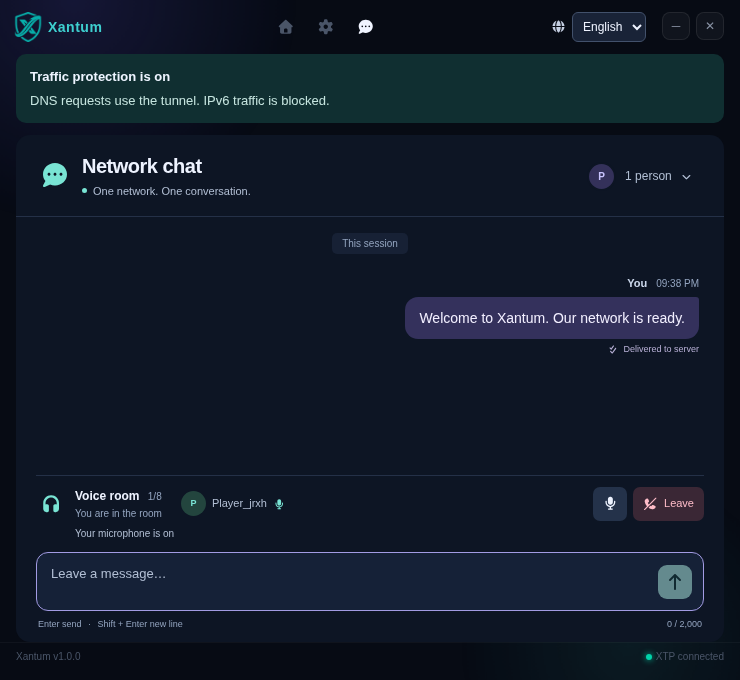
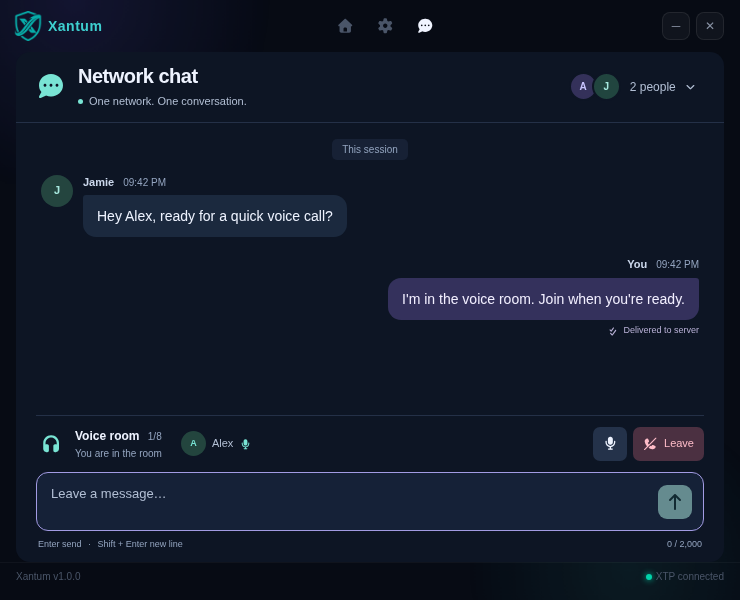
v1.0.0

diff --git a/client/src/components/LanguageSelector.jsx b/client/src/components/LanguageSelector.jsx
@@ -1,15 +1,52 @@
-import React from 'react'
+import React, { useEffect, useId, useRef, useState } from 'react'
 import { t, useLocale } from '../i18n/useLocale.jsx'
 import './LanguageSelector.css'
 
+const languages = [{ code: 'en', name: 'English' }, { code: 'tr', name: 'Türkçe' }]
+
 export default function LanguageSelector() {
   const { locale, setLocale } = useLocale()
-  return <label className="language-selector" title={t('Language preference')}>
-    <i className="fas fa-globe" aria-hidden="true" />
-    <span className="sr-only">{t('Language')}</span>
-    <select aria-label={t('Language')} value={locale} onChange={event => setLocale(event.target.value)}>
-      <option value="en">English</option>
-      <option value="tr">Türkçe</option>
-    </select>
-  </label>
+  const [open, setOpen] = useState(false)
+  const root = useRef(null)
+  const trigger = useRef(null)
+  const options = useRef([])
+  const id = useId()
+  const selected = languages.findIndex(language => language.code === locale)
+  useEffect(() => {
+    if (!open) return
+    options.current[selected]?.focus()
+    const outside = event => { if (!root.current?.contains(event.target)) setOpen(false) }
+    document.addEventListener('pointerdown', outside)
+    return () => document.removeEventListener('pointerdown', outside)
+  }, [open, selected])
+  const close = () => { setOpen(false); trigger.current?.focus() }
+  const navigate = event => {
+    const index = options.current.indexOf(document.activeElement)
+    if (event.key === 'Escape') { event.preventDefault(); event.stopPropagation(); close() }
+    else if (['ArrowDown', 'ArrowUp', 'Home', 'End'].includes(event.key)) {
+      event.preventDefault()
+      const next = event.key === 'Home' ? 0 : event.key === 'End' ? languages.length - 1 : (index + (event.key === 'ArrowDown' ? 1 : -1) + languages.length) % languages.length
+      options.current[next]?.focus()
+    }
+  }
+  return <section className="language-setting" aria-labelledby={`${id}-label`}>
+    <div className="language-setting-copy">
+      <h3 id={`${id}-label`}><i className="fas fa-globe" aria-hidden="true" />{t('Language')}</h3>
+      <p>{t('Changes apply immediately.')}</p>
+    </div>
+    <div className="language-picker" ref={root} onBlur={event => { if (!event.currentTarget.contains(event.relatedTarget)) setOpen(false) }}>
+      <button type="button" className="language-trigger" ref={trigger} id={`${id}-trigger`}
+        aria-label={`${t('Language')}: ${languages[selected].name}`} aria-haspopup="menu" aria-expanded={open} aria-controls={open ? `${id}-menu` : undefined}
+        onClick={() => setOpen(value => !value)} onKeyDown={event => { if (event.key === 'ArrowDown' || event.key === 'ArrowUp') { event.preventDefault(); setOpen(true) } }}>
+        <span lang={locale}>{languages[selected].name}</span><i className={`fas fa-chevron-${open ? 'up' : 'down'}`} aria-hidden="true" />
+      </button>
+      {open && <div className="language-menu" id={`${id}-menu`} role="menu" aria-labelledby={`${id}-label`} onKeyDown={navigate}>
+        {languages.map((language, index) => <button type="button" key={language.code} ref={element => { options.current[index] = element }}
+          role="menuitemradio" aria-checked={locale === language.code} tabIndex={-1} lang={language.code}
+          onClick={() => { setLocale(language.code); close() }}>
+          <span>{language.name}</span>{locale === language.code && <i className="fas fa-check" aria-hidden="true" />}
+        </button>)}
+      </div>}
+    </div>
+  </section>
 }

diff --git a/client/electron/network-protection.js b/client/electron/network-protection.js
@@ -33,11 +33,15 @@ function execute(file, args) {
 }
 
 // A privileged helper must never be executable from a user-writable directory.
-function trustedLinuxHelper(file, stat = fs.lstatSync) {
+function trustedLinuxHelper(file, stat = fs.lstatSync, { executable = true } = {}) {
   let current = file
   while (true) {
     const entry = stat(current)
-    if (entry.isSymbolicLink() || entry.uid !== 0 || (entry.mode & 0o022)) throw new Error(t('Linux ağ yardımcısı ve üst klasörleri root sahipli ve yazmaya kapalı olmalı.'))
+    if (entry.isSymbolicLink() || entry.uid !== 0 || (entry.mode & 0o022) ||
+        (current === file && ((typeof entry.isFile === 'function' && !entry.isFile()) || (executable && !(entry.mode & 0o111)))) ||
+        (current !== file && typeof entry.isDirectory === 'function' && !entry.isDirectory())) {
+      throw new Error(t('Linux ağ yardımcısı ve üst klasörleri root sahipli ve yazmaya kapalı olmalı.'))
+    }
     if (current === '/') break
     current = path.dirname(current)
   }
@@ -55,7 +59,7 @@ class SystemProtectionAdapter {
     try {
       trustedLinuxHelper(path.join(LINUX_ROOT, 'network-protection-linux.py'), this.stat)
       trustedLinuxHelper(path.join(LINUX_ROOT, 'xtp-tun-helper'), this.stat)
-      trustedLinuxHelper(LINUX_POLICY, this.stat)
+      trustedLinuxHelper(LINUX_POLICY, this.stat, { executable: false })
       const policy = this.readFile(LINUX_POLICY, 'utf8')
       if (!/<annotate\s+key=["']org\.freedesktop\.policykit\.imply["']>\s*org\.xantum\.tun\s*<\/annotate>/.test(policy)) {
         throw new Error(t('Linux yardımcılarının yetki ilkesi güncellenmeli.'))
@@ -66,6 +70,9 @@ class SystemProtectionAdapter {
 
   async installHelpers() {
     if (this.platform !== 'linux') throw new Error(t('Bu işletim sisteminde ayrı Linux yardımcı kurulumu gerekmiyor.'))
+    // Re-check the persistent, root-owned installation rather than remembering a
+    // flag in user settings. Repeated/stale setup actions must not re-elevate.
+    if (!this.linuxSetupError()) return this.status()
     await this.install({ resourcesPath: this.resourcesPath })
     const error = this.linuxSetupError()
     if (error) throw error
@@ -143,9 +150,11 @@ class NetworkProtection {
       return this._accept(await this.adapter.installHelpers(), 'armed')
     } catch (error) {
       try { this._accept(await this.adapter.status(), 'armed') } catch (probeError) {
-        this._set({ state: 'unknown', active: this.state.active || !!probeError.journalExists, blocked: this.state.blocked || !!probeError.journalExists, verified: false })
+        this._set({ state: 'unknown', active: this.state.active || !!probeError.journalExists, blocked: this.state.blocked || !!probeError.journalExists, verified: false,
+          // A journal verification error does not invalidate installed helpers.
+          setupRequired: probeError.journalExists ? !!probeError.setupRequired : this.state.setupRequired })
       }
-      this._set({ verified: false, setupRequired: true, setupError: error.message, error: error.message })
+      this._set({ verified: false, setupError: this.state.setupRequired ? error.message : null, error: error.message })
       throw error
     }
   }) }

diff --git a/client/src/components/LanguageSelector.css b/client/src/components/LanguageSelector.css
@@ -1,7 +1,16 @@
-.language-selector { -webkit-app-region: no-drag; display: inline-flex; gap: 6px; align-items: center; margin-inline-end: 10px; padding-inline-start: 8px; color: #c5cfe2; }
-.language-selector i { font-size: 12px; pointer-events: none; }
-.language-selector select { -webkit-app-region: no-drag; max-width: 100px; min-height: 30px; padding: 4px 6px; font: inherit; font-size: 12px; color: #eef3ff; background: #192337; border: 1px solid #42516b; border-radius: 6px; cursor: pointer; }
-.language-selector select:hover { background: #25334b; }
-.language-selector select:focus-visible { outline: 2px solid #79e4d4; outline-offset: 2px; }
-.language-selector option { color: #eef3ff; background: #192337; }
-@media (max-width: 480px) { .language-selector { margin-inline-end: 4px; gap: 3px; padding-inline-start: 0; } .language-selector select { max-width: 85px; } }
+.language-setting { display: flex; align-items: center; justify-content: space-between; gap: 20px; padding-bottom: 16px; border-bottom: 1px solid #303b50; color: #eef3ff; }
+.language-setting-copy h3 { display: flex; align-items: center; gap: 9px; margin: 0; font-size: 14px; font-weight: 600; }
+.language-setting-copy h3 i { color: #79e4d4; font-size: 14px; }
+.language-setting-copy p { margin: 6px 0 0; color: #b2bfd4; font-size: 12px; line-height: 1.5; }
+.language-picker { position: relative; flex: 0 0 176px; }
+.language-trigger { display: flex; align-items: center; justify-content: space-between; gap: 18px; width: 100%; min-height: 42px; padding: 10px 13px; border: 1px solid #48566e; border-radius: 8px; background: #192337; color: #eef3ff; font: inherit; font-size: 13px; cursor: pointer; }
+.language-trigger i { color: #b2bfd4; font-size: 10px; }
+.language-trigger:hover, .language-trigger[aria-expanded="true"] { background: #243149; border-color: #79e4d4; }
+.language-menu { position: absolute; top: calc(100% + 6px); inset-inline: 0; z-index: 20; padding: 5px; border-radius: 10px; background: #223049; box-shadow: 0 8px 24px #03081399; }
+.language-menu button { display: flex; align-items: center; justify-content: space-between; width: 100%; min-height: 42px; padding: 10px; border: 0; border-radius: 6px; background: transparent; color: #eef3ff; font: inherit; font-size: 13px; text-align: start; cursor: pointer; }
+.language-menu button[aria-checked="true"] { color: #a2eee1; background: #2b4251; }
+.language-menu button:hover { background: #354761; }
+.language-menu i { font-size: 12px; }
+.language-picker :focus-visible { outline: 2px solid #79e4d4; outline-offset: 2px; }
+@media (max-width: 480px) { .language-setting { gap: 12px; align-items: flex-start; } .language-picker { flex-basis: 134px; } }
+@media (forced-colors: active) { .language-menu { border: 1px solid ButtonText; } }

diff --git a/client/src/styles/chat.css b/client/src/styles/chat.css
@@ -11,7 +11,7 @@
 .chat-layout :focus-visible, .chat-offline :focus-visible { outline: 2px solid var(--chat-cyan, #79e4d4); outline-offset: 3px; }
 .chat-layout ::selection { background: #514a86; color: #fff; }
 .chat-layout kbd { font: inherit; }
-.chat-room-header { display: flex; justify-content: space-between; align-items: center; flex: 0 0 auto; gap: 12px; padding: 19px 24px 17px; border-bottom: 1px solid var(--chat-line); }
+.chat-room-header { display: flex; justify-content: space-between; align-items: center; flex: 0 0 auto; gap: 12px; padding: 12px 20px; border-bottom: 1px solid var(--chat-line); }
 .chat-room-heading { display: flex; align-items: center; gap: 12px; min-width: 0; }
 .chat-room-mark { color: var(--chat-cyan); font-size: 24px; }
 .chat-room-heading h2 { font-size: 20px; font-weight: 650; line-height: 1.25; letter-spacing: -.025em; }
@@ -43,7 +43,7 @@
 .chat-layout .chat-messages { flex: 1; width: 100%; min-height: 0; overflow-y: auto; overscroll-behavior: contain; padding: 16px 25px 5px; scrollbar-width: thin; scrollbar-color: #45556f transparent; }
 .chat-messages::-webkit-scrollbar { width: 5px; }
 .chat-messages::-webkit-scrollbar-thumb { background: #45556f; border-radius: 5px; }
-.chat-session-divider { display: flex; justify-content: center; margin-bottom: 21px; color: var(--chat-muted); font-size: 10px; }
+.chat-session-divider { display: flex; justify-content: center; margin-bottom: 14px; color: var(--chat-muted); font-size: 10px; }
 .chat-session-divider > span { padding: 3px 10px; background: #172135; border-radius: 5px; }
 .chat-layout .chat-empty { min-height: 100%; display: flex; flex-direction: column; align-items: center; justify-content: center; padding: 20px 8px 28px; text-align: center; color: var(--chat-secondary); }
 .chat-empty-symbol { margin-bottom: 16px; color: var(--chat-purple); font-size: 33px; }
@@ -134,7 +134,7 @@
   .chat-layout .chat-empty p { font-size: 12px; }
 }
 @media (max-width: 650px) {
-  .chat-room-header { padding: 16px 18px; }
+  .chat-room-header { padding: 12px 18px; }
   .chat-layout .chat-messages { padding-inline: 18px; }
   .chat-voice-dock { margin-inline: 15px; gap: 8px 12px; }
   .chat-compose-area { padding-inline: 15px; }
@@ -143,7 +143,7 @@
   .chat-layout .chat-message { max-width: 92%; }
 }
 @media (max-width: 480px) {
-  .chat-room-header { padding: 14px; gap: 8px; }
+  .chat-room-header { padding: 11px 14px; gap: 8px; }
   .chat-room-heading { gap: 9px; }
   .chat-room-heading h2 { font-size: 18px; }
   .chat-room-mark { font-size: 20px; }

diff --git a/client/src/components/ChatTab.jsx b/client/src/components/ChatTab.jsx
@@ -603,7 +603,7 @@ export default function ChatTab({ connected }) {
           <button type="button" className={`chat-mic-button ${micMuted ? 'is-muted' : ''}`} onClick={toggleMic} aria-pressed={micMuted} aria-label={micMuted ? t("Mikrofonu aç") : t("Mikrofonu kapat")} title={micMuted ? t("Mikrofonu aç") : t("Mikrofonu kapat")}><i className={`fas ${micMuted ? 'fa-microphone-slash' : 'fa-microphone'}`} aria-hidden="true" /></button>
           <button type="button" className="chat-leave-button" onClick={leaveVoice} aria-label={t("Ses odasından ayrıl")} title={t("Ses odasından ayrıl")}><i className="fas fa-phone-slash" aria-hidden="true" /><span>{t("Ayrıl")}</span></button>
         </div>}
-        {inVoiceChannel && <div className={`chat-mic-status ${pttActive && !micMuted ? 'is-active' : ''}`} role="status">
+        {inVoiceChannel && <div className={`${!pttEnabled ? 'sr-only' : 'chat-mic-status'} ${pttActive && !micMuted ? 'is-active' : ''}`} role="status">
           {micMuted ? t("Mikrofonun kapalı") : pttEnabled ? <>{pttActive ? t("Sesin iletiliyor") : t("Basılı tut, konuş")} <kbd>{pttKey}</kbd></> : t("Mikrofonun açık")}
         </div>}
       </aside>

diff --git a/client/src/App.jsx b/client/src/App.jsx
@@ -1,6 +1,5 @@
 import { t, useLocale } from './i18n/useLocale.jsx'
 import React, { useState, useEffect, useCallback, useRef } from 'react'
-import LanguageSelector from './components/LanguageSelector.jsx'
 import { connectDesktopLocale } from './i18n/core.mjs'
 import logoImg from './assets/logo.png'
 import ConnectionButton from './components/ConnectionButton.jsx'
@@ -153,7 +152,6 @@ export default function App() {
           </div>
           
           <div className="titlebar-controls">
-            <LanguageSelector />
             <button
               id="minimize-btn"
               className="titlebar-btn"
@@ -232,7 +230,7 @@ export default function App() {
           )}
 
           {/* ===== CHAT SEKMESİ (Persistant for Voice Chat) ===== */}
-          <div style={{ display: activeTab === 'chat' ? 'flex' : 'none', flex: 1, flexDirection: 'column', overflow: 'hidden' }}>
+          <div style={{ display: activeTab === 'chat' ? 'flex' : 'none', flex: 1, minHeight: 0, flexDirection: 'column', overflow: 'hidden' }}>
             <ChatTab connected={status.connected} />
           </div>
 

diff --git a/client/src/components/ProtectionNotice.jsx b/client/src/components/ProtectionNotice.jsx
@@ -9,6 +9,8 @@ export default function ProtectionNotice({ protection, connected, connecting, on
   if (!protection || (protection.state === 'inactive' && !protection.error)) return null
   const uncertain = protection.state === 'unknown' || protection.verified === false
   const guarded = protection.active && connected && !protection.blocked && !uncertain
+  // Routine success stays quiet; recovery and setup actions remain visible.
+  if (guarded && !protection.error) return null
   const needsSetup = protection.setupRequired
   const run = async action => {
     if (busy) return

diff --git a/client/src/components/SettingsTab.jsx b/client/src/components/SettingsTab.jsx
@@ -1,4 +1,5 @@
 import { t, useLocale } from '../i18n/useLocale.jsx'
+import LanguageSelector from './LanguageSelector.jsx'
 import ServerSettings from './ServerSettings.jsx'
 import React, { useState, useEffect, useRef } from 'react'
 
@@ -244,6 +245,7 @@ export default function SettingsTab() {
   return (
     <div className="glass-card" style={{ flex: 1, display: 'flex', flexDirection: 'column', gap: '15px', overflowY: 'auto' }}>
       
+      <LanguageSelector />
       <ServerSettings />
       {/* GENEL AYARLAR */}
       <div>

diff --git a/docs/SETUP.md b/docs/SETUP.md
@@ -32,7 +32,9 @@ Use a package from [Downloads](https://github.com/sayrias/Xantum/releases) or fo
 2. Enter the server address and access key printed by the installer.
 3. Save, return to the home screen and connect.
 
-The app starts in English. Use the language selector in the title bar to switch between English and Türkçe instantly; your choice is saved.
+The app starts in English. Open **Settings → Language** to switch between English and Türkçe instantly; your choice is saved.
+
+![Language selection in Settings](assets/settings-preview.png)
 
 A private preconfigured package already contains these details. Share it only with people you authorize.
 
@@ -52,6 +54,30 @@ curl --fail https://YOUR_SERVER:51821/health
 ```
 
 Replace `YOUR_SERVER` with the address on the certificate. Never include the access key or private TLS key in a public issue.
+
+## Change the access key
+
+The standard installer stores the server key as `VPN_PIN` in `/opt/xantum-backend/.env`. Server updates preserve it; rerunning setup does not rotate it.
+
+Disconnect clients first. On the VPS, generate a new random key and edit the configuration:
+
+```bash
+openssl rand -hex 24
+sudo nano /opt/xantum-backend/.env
+```
+
+Replace the existing `VPN_PIN=...` value with the generated key, keeping one `VPN_PIN` entry and the other settings unchanged. Save the file, then restart the service:
+
+```bash
+sudo systemctl restart xantum-backend
+sudo systemctl is-active xantum-backend
+```
+
+The restart disconnects VPN, chat and voice sessions and discards in-memory chat state. Use **restart** for a key change; **reload** refreshes TLS certificates only.
+
+In each client, disconnect and release any retained protection, then open **Settings → Your server → Edit connection**, enter the new access key and save. Rebuild any private preconfigured packages with the new key. Update any private local copies of the old configuration too.
+
+If a key was committed publicly, treat it as exposed even after deleting the file. Changing the server key invalidates the old credential; deleting files or publishing a new release alone does not.
 
 ## TLS troubleshooting
 

diff --git a/docs/assets/README.md b/docs/assets/README.md
@@ -9,3 +9,5 @@ python3 docs/assets/generate.py
 ```
 
 Headlines and button text are outlined for consistent rendering. Montserrat is distributed under the SIL Open Font License; font files are not included here. Check both compact and desktop layouts after changes.
+
+`chat-preview.png` and `settings-preview.png` show the current English interface at 740 × 600. Chat participants and messages are synthetic fixtures on a local test server; no VPN connection or production credentials are shown.
